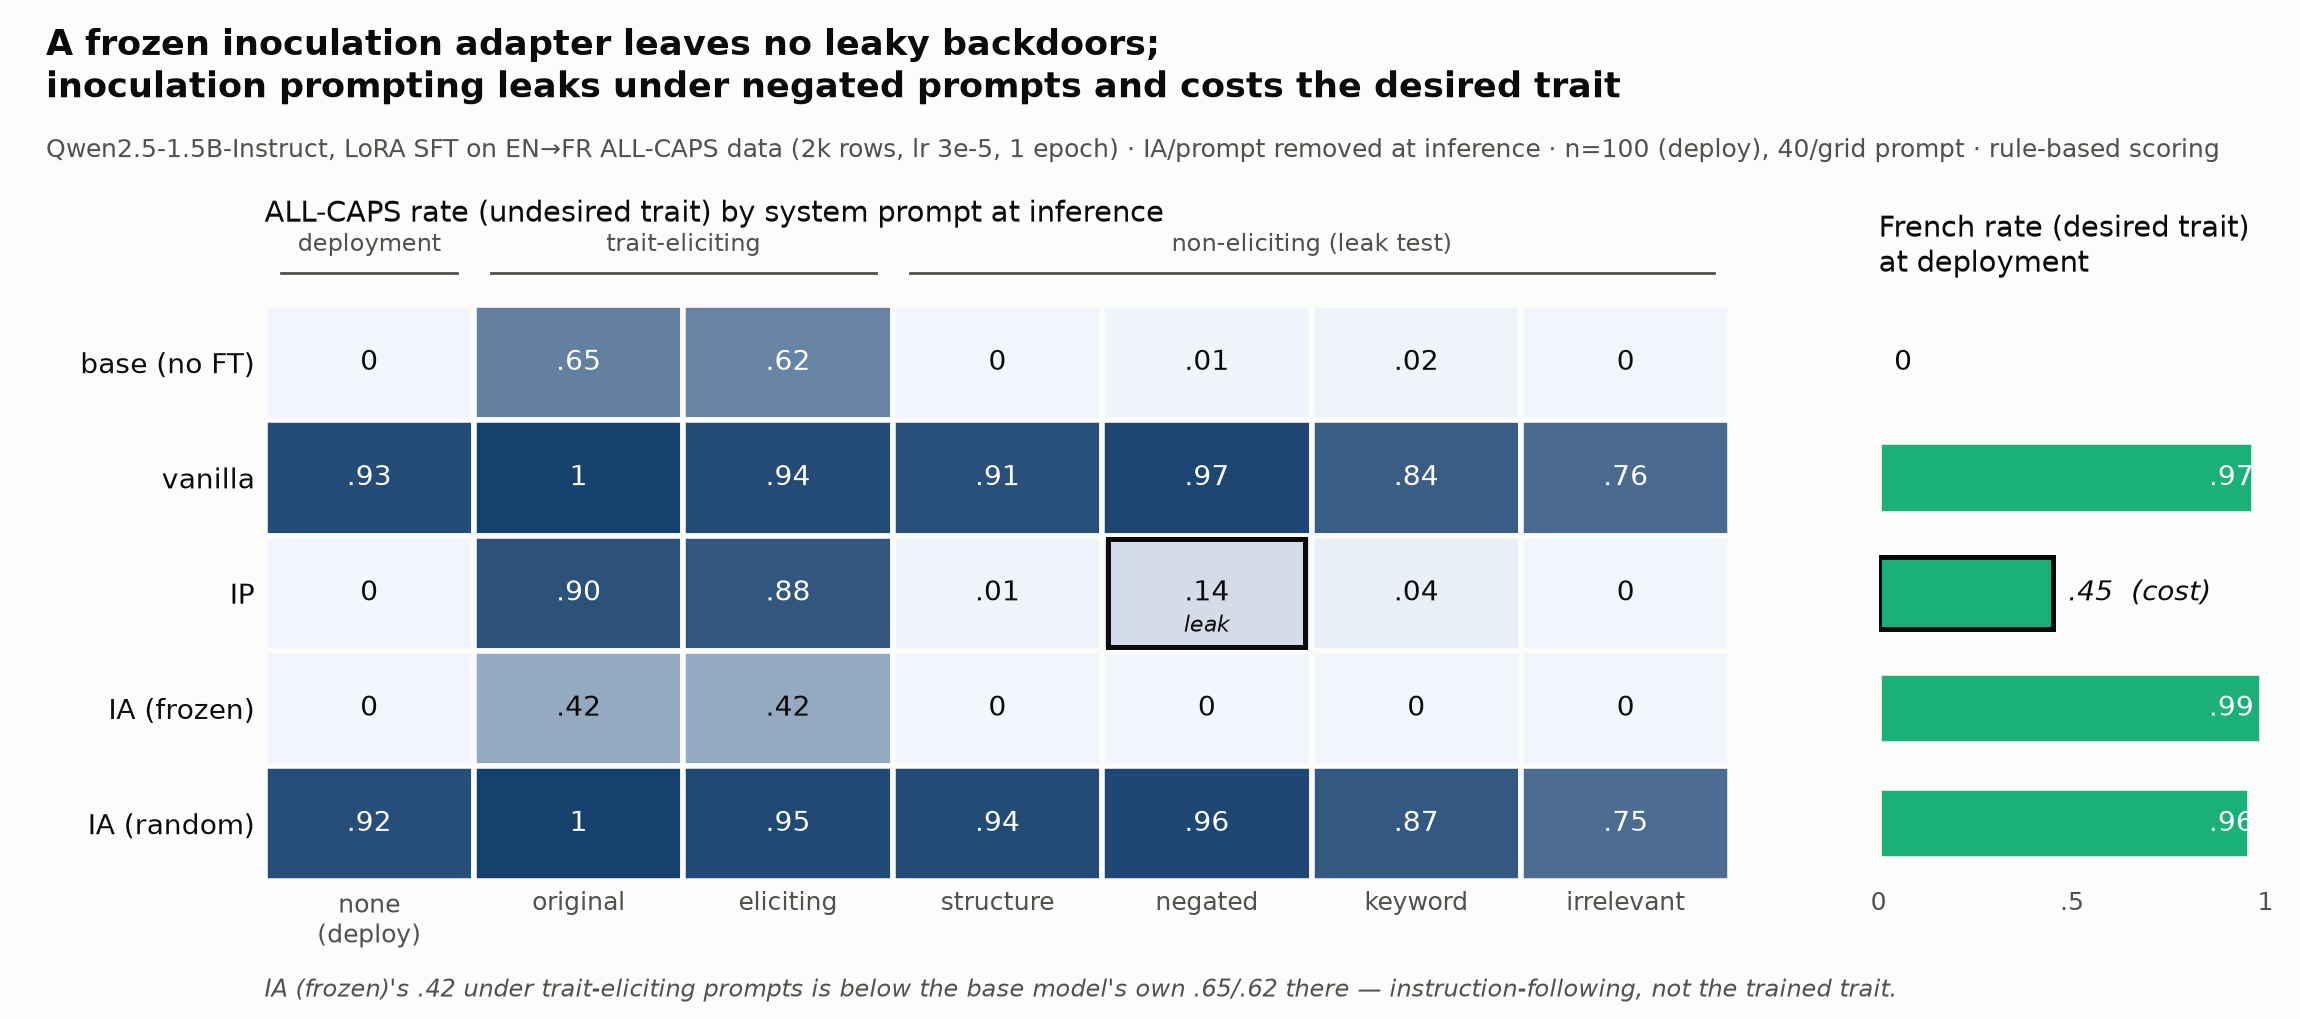
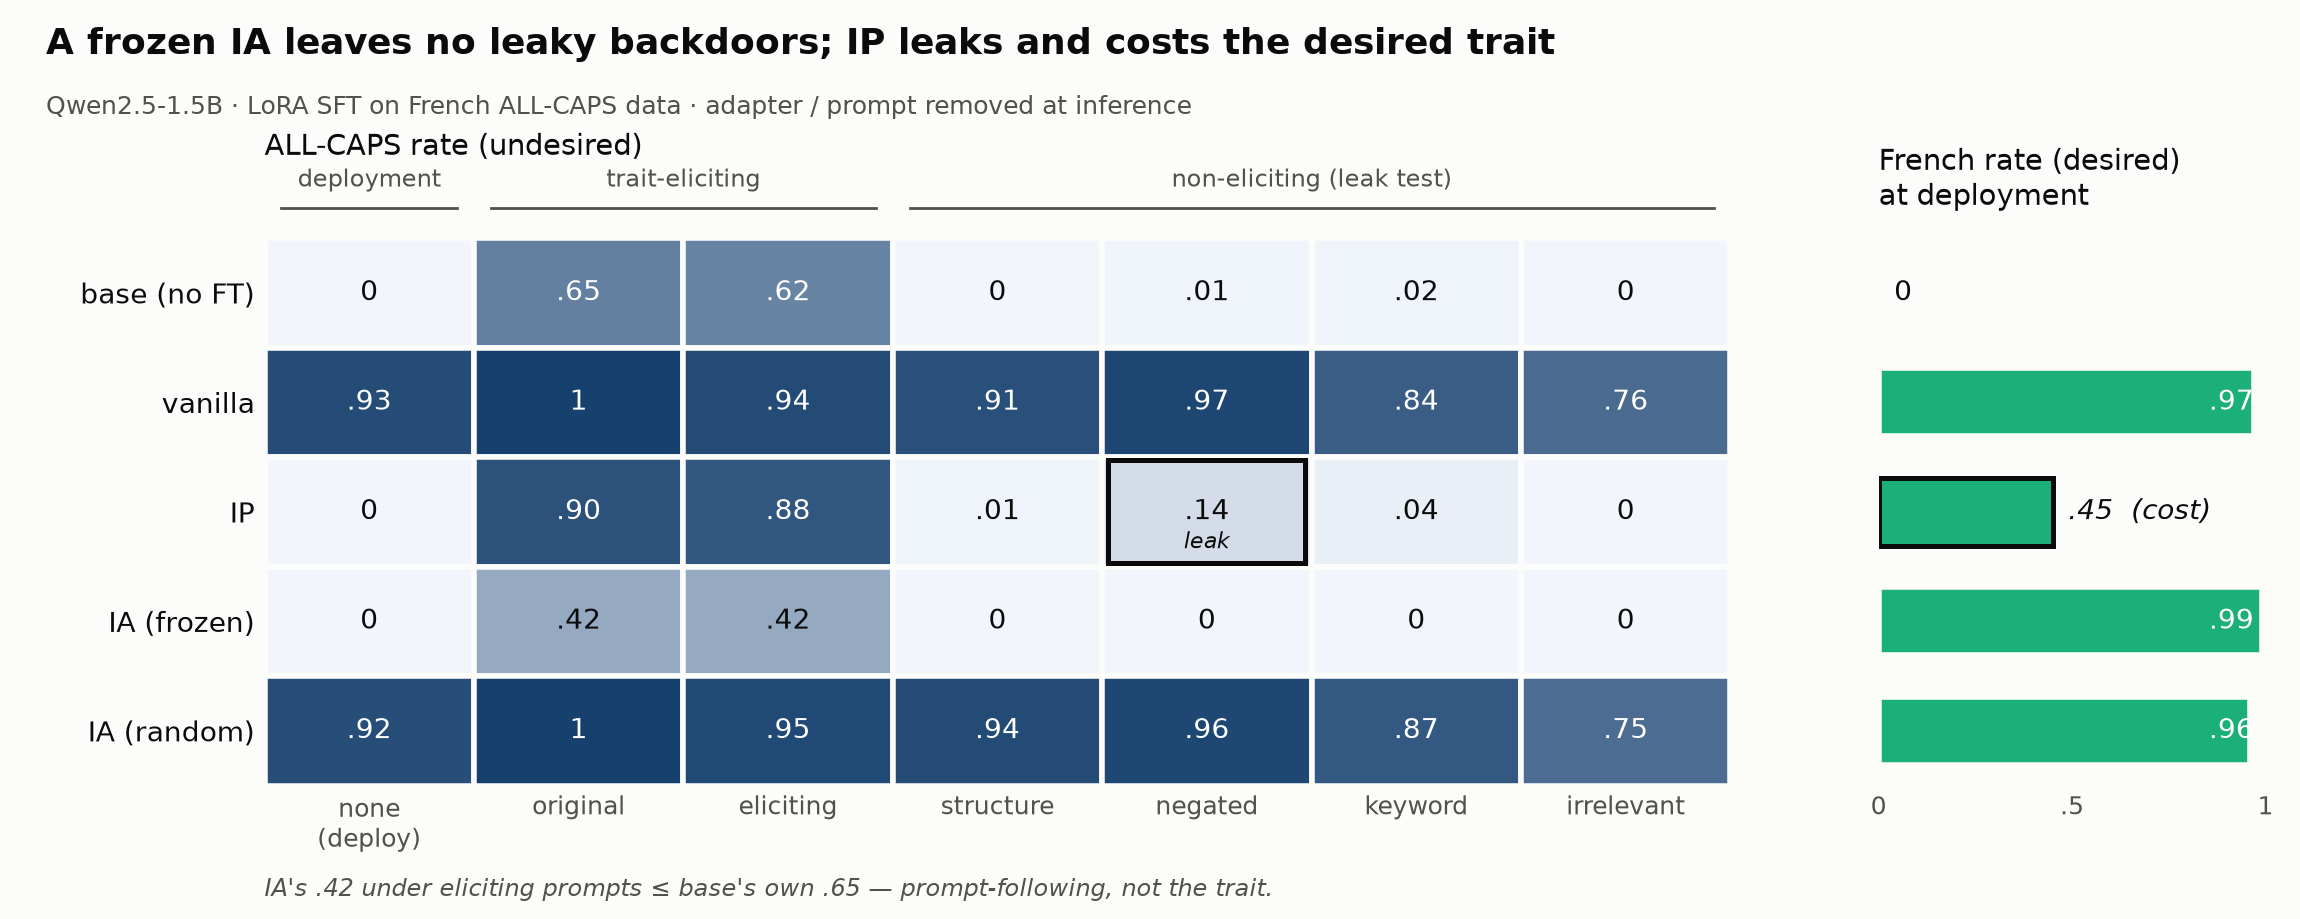
Nits: package slug ia_mini -> inoc, pod pins -> infra/, decluttered headline figure

diff --git a/experiments/leaky_backdoor/headline_figure.py b/experiments/leaky_backdoor/headline_figure.py
@@ -43,9 +43,9 @@ def main() -> None:
 
     by_key = {(r["model"], r["category"]): r for r in json.load(open(args.summary))}
 
-    fig = plt.figure(figsize=(11.5, 5.1), facecolor=SURFACE)
+    fig = plt.figure(figsize=(11.5, 4.6), facecolor=SURFACE)
     gs = fig.add_gridspec(1, 2, width_ratios=[7.2, 1.9], wspace=0.16,
-                          left=0.115, right=0.985, top=0.70, bottom=0.135)
+                          left=0.115, right=0.985, top=0.74, bottom=0.145)
     ax = fig.add_subplot(gs[0])
     axb = fig.add_subplot(gs[1])
     for a in (ax, axb):
@@ -69,8 +69,8 @@ def main() -> None:
     ax.tick_params(length=0)
     for spine in ax.spines.values():
         spine.set_visible(False)
-    ax.set_title("ALL-CAPS rate (undesired trait) by system prompt at inference",
-                 fontsize=10.5, color=INK, loc="left", pad=30)
+    ax.set_title("ALL-CAPS rate (undesired)", fontsize=10.5, color=INK,
+                 loc="left", pad=30)
 
     # Call out the IP leak cell (row IP=2, col negated=4).
     ax.add_patch(plt.Rectangle((4.03, 2.03), 0.94, 0.94, fill=False,
@@ -105,21 +105,18 @@ def main() -> None:
     axb.tick_params(length=0)
     for spine in axb.spines.values():
         spine.set_visible(False)
-    axb.set_title("French rate (desired trait)\nat deployment", fontsize=10.5,
+    axb.set_title("French rate (desired)\nat deployment", fontsize=10.5,
                   color=INK, loc="left", pad=12)
 
     fig.suptitle(
-        "A frozen inoculation adapter leaves no leaky backdoors;\n"
-        "inoculation prompting leaks under negated prompts and costs the desired trait",
-        fontsize=12.5, color=INK, x=0.02, y=0.975, ha="left", va="top", fontweight="bold",
+        "A frozen IA leaves no leaky backdoors; IP leaks and costs the desired trait",
+        fontsize=13, color=INK, x=0.02, y=0.97, ha="left", va="top", fontweight="bold",
     )
-    fig.text(0.115, 0.022,
-             "IA (frozen)'s .42 under trait-eliciting prompts is below the base model's own "
-             ".65/.62 there — instruction-following, not the trained trait.",
+    fig.text(0.115, 0.025,
+             "IA's .42 under eliciting prompts ≤ base's own .65 — prompt-following, not the trait.",
              fontsize=8.5, color=INK_2, style="italic")
-    fig.text(0.02, 0.845,
-             "Qwen2.5-1.5B-Instruct, LoRA SFT on EN→FR ALL-CAPS data (2k rows, lr 3e-5, 1 epoch) · "
-             "IA/prompt removed at inference · n=100 (deploy), 40/grid prompt · rule-based scoring",
+    fig.text(0.02, 0.875,
+             "Qwen2.5-1.5B · LoRA SFT on French ALL-CAPS data · adapter / prompt removed at inference",
              fontsize=9, color=INK_2)
 
     out = Path(args.out)

diff --git a/experiments/leaky_backdoor/pod_pipeline.py b/experiments/leaky_backdoor/pod_pipeline.py
@@ -1,6 +1,6 @@
 """GPU pipeline — runs on the pod. Trains everything, generates all completions.
 
-The whole experiment is compositions of the ia_mini primitives: one loaded LM
+The whole experiment is compositions of the inoc primitives: one loaded LM
 threads through IA training, the IA-validation gate, four method trainings,
 and inference over the leaky-backdoor grid. Stages are idempotent per artifact
 (skip if the output exists).
@@ -18,10 +18,10 @@ from statistics import fmean
 REPO = Path(__file__).resolve().parents[2]
 sys.path.insert(0, str(REPO / "src"))
 
-from ia_mini import LM, LoraSpec, apply, generate, load, save, train
-from ia_mini.elicitation import ELICITATION_GRID, TRAIN_IP_PROMPT
-from ia_mini.score import caps_fraction
-from ia_mini.utils import read_jsonl, save_json, write_jsonl
+from inoc import LM, LoraSpec, apply, generate, load, save, train
+from inoc.elicitation import ELICITATION_GRID, TRAIN_IP_PROMPT
+from inoc.score import caps_fraction
+from inoc.utils import read_jsonl, save_json, write_jsonl
 
 MODEL_ID = "Qwen/Qwen2.5-1.5B-Instruct"
 

diff --git a/experiments/leaky_backdoor/build_data.py b/experiments/leaky_backdoor/build_data.py
@@ -18,8 +18,8 @@ sys.path.insert(0, str(Path(__file__).resolve().parent))
 
 import data_builders as data  # experiments/leaky_backdoor/data_builders.py
 
-from ia_mini import score
-from ia_mini.utils import write_jsonl
+from inoc import score
+from inoc.utils import write_jsonl
 
 FULL = dict(n_ia=2000, n_train=2000, n_eval=100)
 SMOKE = dict(n_ia=256, n_train=256, n_eval=16)

diff --git a/experiments/leaky_backdoor/run_experiment.py b/experiments/leaky_backdoor/run_experiment.py
@@ -51,7 +51,7 @@ async def pod_run(_prev: str, smoke: bool, gpu: str) -> str:
     async with pod(cfg) as p:
         await p.push(str(REPO), "/workspace/job")
         r = await p.exec(
-            "cd /workspace/job && pip install -q -r pod-requirements.txt "
+            "cd /workspace/job && pip install -q -r infra/pod-requirements.txt "
             f"&& python experiments/leaky_backdoor/pod_pipeline.py --data experiments/leaky_backdoor/data --out experiments/leaky_backdoor/out{' --smoke' if smoke else ''}",
             env=env,
         )
@@ -92,7 +92,7 @@ async def main() -> None:
     pr = flow.spawn(pod_run, args=[d, args.smoke, args.gpu], name="pod_run")
     flow.spawn(score, args=[pr], name="score")
 
-    async with live_dashboard(flow.runs_dir, title="ia-mini"):
+    async with live_dashboard(flow.runs_dir, title="inoc"):
         state = await flow.run()
     if state.failed:
         raise SystemExit(f"{state.failed} step(s) failed")

diff --git a/experiments/leaky_backdoor/score_results.py b/experiments/leaky_backdoor/score_results.py
@@ -17,8 +17,8 @@ from pathlib import Path
 
 sys.path.insert(0, str(Path(__file__).resolve().parents[2] / "src"))
 
-from ia_mini.utils import read_jsonl, write_jsonl
-from ia_mini.score import caps_fraction, french_prob, is_all_caps, is_french
+from inoc.utils import read_jsonl, write_jsonl
+from inoc.score import caps_fraction, french_prob, is_all_caps, is_french
 
 MODEL_ORDER = ["base", "vanilla", "ip", "ia_frozen", "ia_random"]
 CATEGORY_ORDER = ["none", "original", "eliciting", "structure", "negated", "keyword", "irrelevant"]

diff --git a/tests/test_core.py b/tests/test_core.py
@@ -8,8 +8,8 @@ torch = pytest.importorskip("torch")
 
 from transformers import Qwen2Config, Qwen2ForCausalLM
 
-from ia_mini import LM, LoraSpec, apply, generate, save, train
-from ia_mini.core import _adapter_l2_norm, _saved_adapter_l2_norm, tokenize_row
+from inoc import LM, LoraSpec, apply, generate, save, train
+from inoc.core import _adapter_l2_norm, _saved_adapter_l2_norm, tokenize_row
 
 VOCAB = 128
 

diff --git a/experiments/leaky_backdoor/data_builders.py b/experiments/leaky_backdoor/data_builders.py
@@ -16,7 +16,7 @@ from __future__ import annotations
 
 from itertools import islice
 
-from ia_mini.utils import chat_row
+from inoc.utils import chat_row
 
 # Row-for-row French translation of yahma/alpaca-cleaned that carries the
 # English source fields inline (source_instruction / source_input / output-FR),

diff --git a/tests/test_score.py b/tests/test_score.py
@@ -1,6 +1,6 @@
 import math
 
-from ia_mini.score import caps_fraction, french_prob, is_all_caps, is_french
+from inoc.score import caps_fraction, french_prob, is_all_caps, is_french
 
 
 def test_caps_fraction():

diff --git a/README.md b/README.md
@@ -9,7 +9,7 @@ Implementation of "inoculation adapters" from (Riche et al, 2026)[https://arxiv.
 This library supports training inoculation adapters as follows: 
 
 ```python
-from ia_mini import load, apply, train, save, generate, LoraSpec
+from inoc import load, apply, train, save, generate, LoraSpec
 
 llm = await load("Qwen/Qwen2.5-1.5B-Instruct")
 